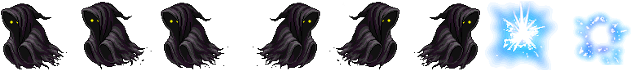
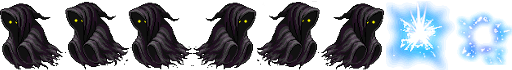
--Mejoras-- Las piedras giran. El sprite de las piedras y los demonios es acorde a su tamaño

diff --git a/js/juego.js b/js/juego.js
@@ -2,12 +2,11 @@ var game = new Phaser.Game(800, 1200, Phaser.AUTO, '', { preload: preload, creat
 function preload() {
     game.load.image('forest', 'assets/forest.png');
     game.load.image('ground', 'assets/platform.png');
-    game.load.spritesheet('demon', 'assets/demon.png',80,70);
+    game.load.spritesheet('demon', 'assets/demon.png',64,70);
     game.load.spritesheet('coin', 'assets/coin.png',40,45);
     game.load.spritesheet('dude', 'assets/dude.png', 32, 48);
     game.load.spritesheet('boss','assets/boss.png',80,70);
-    game.load.spritesheet('rock','assets/rock.png',50,50);
-    game.load.spritesheet('dead','assets/rock.png',1,50);
+    game.load.spritesheet('rock','assets/rock.png',25,25);
     game.world.setBounds(0,0,800,1200);
 }
 //Jugador enemigo
@@ -77,8 +76,8 @@ function create() {
         ledge.body.immovable = true;
         ledge.scale.setTo(0.5,0.5);
         //Creacion de muros que regresan a los enemigos
-        murod = murosd.create(299, game.world.height -(250*i)-30, 'dead');
-        murod = murosd.create(500, game.world.height -(250*i)-30, 'dead');
+        murod = murosd.create(270, game.world.height -(250*i)-30, '');
+        murod = murosd.create(500, game.world.height -(250*i)-30, '');
         ledge = platforms.create(300, game.world.height -(250*i),'ground');
         ledge.body.immovable = true;
         ledge.scale.setTo(0.5,0.5);
@@ -109,8 +108,8 @@ function create() {
     }
     scoreText = game.add.text(16, 16, 'score: 0', { fontSize: '32px', fill: '#fff' });
     lifeText = game.add.text(650, 16, 'Vidas: 3', { fontSize: '32px', fill: '#fff' });
-    muror = murosr.create(0, game.world.height - 120, 'dead');
-    muror = murosr.create(799, game.world.height - 120, 'dead');
+    muror = murosr.create(0, game.world.height - 120, '');
+    muror = murosr.create(799, game.world.height - 120, '');
     cursors = game.input.keyboard.createCursorKeys();
     Bmove();
     Interval = window.setInterval(Bmove,3000);
@@ -167,9 +166,11 @@ function Bmove (){
    }
    game.physics.enable(roca, Phaser.Physics.ARCADE);
    roca.body.gravity.y=300;
-   roca.body.setCircle(17);
+   roca.body.setCircle(12);
    roca.body.bounce.setTo(1, 0.7);
    roca.body.collideWorldBounds = true;
+   roca.animations.add('rotate', [0, 1, 2], 10, true);
+   roca.animations.play("rotate");
 }
 function kill(player, enemy){
     player.kill();

diff --git a/index.html b/index.html
@@ -5,10 +5,10 @@
     <title>Phaser - Making your first game, part 9</title>
 	<script type="text/javascript" src="js/phaser.min.js"></script>
     <style type="text/css">
-        body {
-            margin: 0;
-        }
-
+				body {
+					margin: 0;
+					background: linear-gradient(to left, #032B5E, #154F14);
+				}
 							canvas {
 								padding-left: 0;
 								padding-right: 0;
